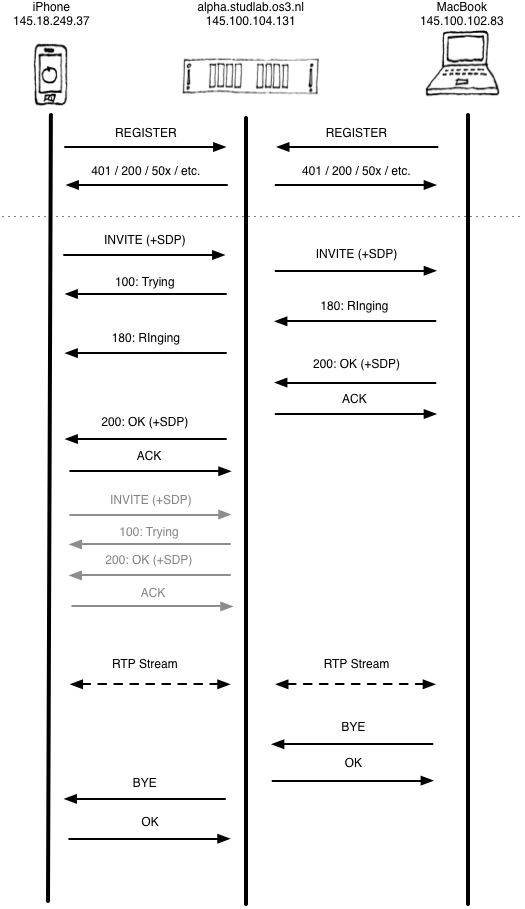
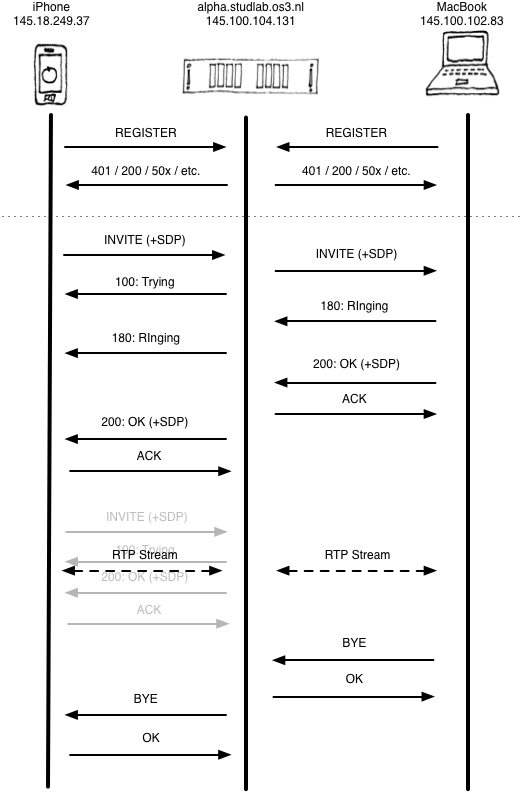
Adjustement because of the extra sequence

diff --git a/lab2.md b/lab2.md
@@ -65,5 +65,7 @@ The drawing for both question 1 and 2 is included below.
 
 ![SIP Calling Flow](lab2-drawing.png)
 
+What struck me as odd and what I couldn't find on the Internet either is the short `INVITE`, `OK`, `ACK` sequence during the call between the caller and the server (which I grayed out in the drwaing). Maybe this is because some changes in the network, but I can't say for sure.
+
 **3. Capture RTP streaming in the call, using Wireshark to decode the captured conversation. What is the maximal and mean jitter values of the RTP stream? List some possible sources of jitter? Explain relation between jitter and delay.**
 
